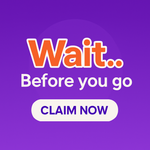
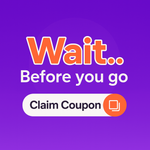
updated promos for templates

Changed region(s): [[0.1333, 0.2133, 0.88, 0.8267]]

diff --git a/src/editor/components/variation-picker/Component.scss b/src/editor/components/variation-picker/Component.scss
@@ -302,6 +302,10 @@
     height: 100%;
     grid-column: 2 / 3;
     grid-row: 1 / 2;
+
+    p {
+      margin-top: 0;
+    }
   }
 }
 

diff --git a/includes/Admin/Templates/ProFlyoutTemplates.php b/includes/Admin/Templates/ProFlyoutTemplates.php
@@ -5,51 +5,38 @@
  */
 return array(
     array(
-        'name' => 'flyout__digital_download_signup',
-        'title' => __( 'Digital Download Signup', 'fooconvert' ),
-        'description' => __( 'Digital download signup themed flyout.', 'fooconvert' ),
-        'thumbnail' => FOOCONVERT_ASSETS_URL . 'media/templates/template__digital_download_signup.png',
-        'pro' => true,
-        'upsell' => array(
-            'title' => 'Digital Download Signup',
-            'content' => '<p>example description <a href="#link">with a link</a></p>',
-            'image' => FOOCONVERT_ASSETS_URL . 'media/templates/template__digital_download_signup.png',
-            'primary' => array(
-                'text' => 'View PRO Pricing',
-                'href' => '#view_pro_pricing_url',
-            ),
-            'secondary' => array(
-                'text' => 'Start Free Trial',
-                'href' => '#start_free_trial_url',
-            )
-        )
-    ),
-    array(
-        'name' => 'flyout__newsletter_subscribe',
-        'title' => __( 'Newsletter Subscribe', 'fooconvert' ),
-        'description' => __( 'Newsletter subscribe themed flyout.', 'fooconvert' ),
-        'thumbnail' => FOOCONVERT_ASSETS_URL . 'media/templates/template__newsletter_subscribe.png',
-        'pro' => true,
-    ),
-    array(
-        'name' => 'flyout__smart_exit_offer',
-        'title' => __( 'Smart Exit Offer', 'fooconvert' ),
-        'description' => __( 'A smart exit offer flyout lead magnet to help prevent visitors from leaving your site.', 'fooconvert' ),
-        'thumbnail' => FOOCONVERT_ASSETS_URL . 'media/templates/template__smart_exit_offer.png',
+        'name' => 'flyout__watch_the_video',
+        'title' => __( 'Watch the Video', 'fooconvert' ),
+        'description' => __( 'The "Watch the Video" flyout templates guides visitors to watch a specific video. Get more views to your YouTube channel!', 'fooconvert' ),
+        'thumbnail' => FOOCONVERT_ASSETS_URL . 'media/templates/template__video.png',
         'pro' => true,
     ),
     array(
         'name' => 'flyout__special_offer',
         'title' => __( 'Special Offer Countdown', 'fooconvert' ),
-        'description' => __( 'Guide visitors to specific offer with a countdown timer.', 'fooconvert' ),
+        'description' => __( 'The "Special Offer Countdown" flyout templates guides visitors to a specific offer with an awesome looking countdown timer.', 'fooconvert' ),
         'thumbnail' => FOOCONVERT_ASSETS_URL . 'media/templates/template__special_offer.png',
         'pro' => true,
     ),
     array(
-        'name' => 'flyout__watch_the_video',
-        'title' => __( 'Watch the Video', 'fooconvert' ),
-        'description' => __( 'Guide visitors to a watch a specific video.', 'fooconvert' ),
-        'thumbnail' => FOOCONVERT_ASSETS_URL . 'media/templates/template__video.png',
+        'name' => 'flyout__digital_download_signup',
+        'title' => __( 'Digital Download Signup', 'fooconvert' ),
+        'description' => __( 'The "Digital Download Signup" flyout template is a lead magnet to help you grow your mailing list by offering a free download (e.g. an e-book, PDF, etc). All leads are also captured under FooConvert -> Leads.', 'fooconvert' ),
+        'thumbnail' => FOOCONVERT_ASSETS_URL . 'media/templates/template__digital_download_signup.png',
+        'pro' => true
+    ),
+    array(
+        'name' => 'flyout__smart_exit_offer',
+        'title' => __( 'Smart Exit Offer', 'fooconvert' ),
+        'description' => __( 'The "Smart Exit Offer" flyout templates is an exit intent bar that guides visitors to copy and use a specific coupon code to help persuade visitors to stay on your site.', 'fooconvert' ),
+        'thumbnail' => FOOCONVERT_ASSETS_URL . 'media/templates/template__smart_exit_offer.png',
         'pro' => true,
     ),
+    array(
+        'name' => 'flyout__newsletter_subscribe',
+        'title' => __( 'Newsletter Subscribe', 'fooconvert' ),
+        'description' => __( 'The "Newsletter Subscribe" flyout template captures leads for your newsletter. All leads are also captured under FooConvert -> Leads.', 'fooconvert' ),
+        'thumbnail' => FOOCONVERT_ASSETS_URL . 'media/templates/template__newsletter_subscribe.png',
+        'pro' => true,
+    )
 );

diff --git a/includes/Admin/Templates/ProPopupTemplates.php b/includes/Admin/Templates/ProPopupTemplates.php
@@ -5,51 +5,38 @@
  */
 return array(
     array(
-        'name' => 'popup__digital_download_signup',
-        'title' => __( 'Digital Download Signup', 'fooconvert' ),
-        'description' => __( 'Digital download signup themed popup.', 'fooconvert' ),
-        'thumbnail' => FOOCONVERT_ASSETS_URL . 'media/templates/template__digital_download_signup.png',
-        'pro' => true,
-        'upsell' => array(
-            'title' => 'Digital Download Signup',
-            'content' => '<p>example description <a href="#link">with a link</a></p>',
-            'image' => FOOCONVERT_ASSETS_URL . 'media/templates/template__digital_download_signup.png',
-            'primary' => array(
-                'text' => 'View PRO Pricing',
-                'href' => '#view_pro_pricing_url',
-            ),
-            'secondary' => array(
-                'text' => 'Start Free Trial',
-                'href' => '#start_free_trial_url',
-            )
-        )
-    ),
-    array(
-        'name' => 'popup__newsletter_subscribe',
-        'title' => __( 'Newsletter Subscribe', 'fooconvert' ),
-        'description' => __( 'Newsletter Subscribe marketing themed popup.', 'fooconvert' ),
-        'thumbnail' => FOOCONVERT_ASSETS_URL . 'media/templates/template__newsletter_subscribe.png',
-        'pro' => true,
-    ),
-    array(
-        'name' => 'popup__smart_exit_offer',
-        'title' => __( 'Smart Exit Offer', 'fooconvert' ),
-        'description' => __( 'Smart exit offer themed popup.', 'fooconvert' ),
-        'thumbnail' => FOOCONVERT_ASSETS_URL . 'media/templates/template__smart_exit_offer.png',
+        'name' => 'popup__watch_the_video',
+        'title' => __( 'Watch the Video', 'fooconvert' ),
+        'description' => __( 'The "Watch the Video" popup templates guides visitors to watch a specific video. Get more views to your YouTube channel!', 'fooconvert' ),
+        'thumbnail' => FOOCONVERT_ASSETS_URL . 'media/templates/template__video.png',
         'pro' => true,
     ),
     array(
         'name' => 'popup__special_offer',
         'title' => __( 'Special Offer Countdown', 'fooconvert' ),
-        'description' => __( 'Guide visitors to specific offer with a countdown timer.', 'fooconvert' ),
+        'description' => __( 'The "Special Offer Countdown" popup templates guides visitors to a specific offer with an awesome looking countdown timer.', 'fooconvert' ),
         'thumbnail' => FOOCONVERT_ASSETS_URL . 'media/templates/template__special_offer.png',
         'pro' => true,
     ),
     array(
-        'name' => 'popup__watch_the_video',
-        'title' => __( 'Watch the Video', 'fooconvert' ),
-        'description' => __( 'Guide visitors to a watch a specific video.', 'fooconvert' ),
-        'thumbnail' => FOOCONVERT_ASSETS_URL . 'media/templates/template__video.png',
+        'name' => 'popup__digital_download_signup',
+        'title' => __( 'Digital Download Signup', 'fooconvert' ),
+        'description' => __( 'The "Digital Download Signup" popup template is a lead magnet to help you grow your mailing list by offering a free download (e.g. an e-book, PDF, etc). All leads are also captured under FooConvert -> Leads.', 'fooconvert' ),
+        'thumbnail' => FOOCONVERT_ASSETS_URL . 'media/templates/template__digital_download_signup.png',
+        'pro' => true
+    ),
+    array(
+        'name' => 'popup__smart_exit_offer',
+        'title' => __( 'Smart Exit Offer', 'fooconvert' ),
+        'description' => __( 'The "Smart Exit Offer" popup templates is an exit intent bar that guides visitors to copy and use a specific coupon code to help persuade visitors to stay on your site.', 'fooconvert' ),
+        'thumbnail' => FOOCONVERT_ASSETS_URL . 'media/templates/template__smart_exit_offer.png',
         'pro' => true,
     ),
+    array(
+        'name' => 'popup__newsletter_subscribe',
+        'title' => __( 'Newsletter Subscribe', 'fooconvert' ),
+        'description' => __( 'The "Newsletter Subscribe" popup template captures leads for your newsletter. All leads are also captured under FooConvert -> Leads.', 'fooconvert' ),
+        'thumbnail' => FOOCONVERT_ASSETS_URL . 'media/templates/template__newsletter_subscribe.png',
+        'pro' => true,
+    )
 );

diff --git a/includes/Admin/Templates/ProBarTemplates.php b/includes/Admin/Templates/ProBarTemplates.php
@@ -5,38 +5,38 @@
  */
 return array(
     array(
-        'name' => 'bar__digital_download_signup',
-        'title' => __( 'Digital Download Signup', 'fooconvert' ),
-        'description' => __( 'The "Digital Download Signup" bar template is a lead magnet help you grow your mailing list by offering a free download (e.g. an e-book, PDF, etc). All leads are also captured under FooConvert -> Leads.', 'fooconvert' ),
-        'thumbnail' => FOOCONVERT_ASSETS_URL . 'media/templates/template__digital_download_signup.png',
-        'pro' => true
-    ),
-    array(
-        'name' => 'bar__newsletter_subscribe',
-        'title' => __( 'Newsletter Subscribe', 'fooconvert' ),
-        'description' => __( 'Newsletter Subscribe marketing themed bar.', 'fooconvert' ),
-        'thumbnail' => FOOCONVERT_ASSETS_URL . 'media/templates/template__newsletter_subscribe.png',
-        'pro' => true,
-    ),
-    array(
-        'name' => 'bar__smart_exit_offer',
-        'title' => __( 'Smart Exit Offer', 'fooconvert' ),
-        'description' => __( 'A smart exit offer bar lead magnet to help prevent visitors from leaving your site.', 'fooconvert' ),
-        'thumbnail' => FOOCONVERT_ASSETS_URL . 'media/templates/template__smart_exit_offer.png',
+        'name' => 'bar__watch_the_video',
+        'title' => __( 'Watch the Video', 'fooconvert' ),
+        'description' => __( 'The "Watch the Video" bar templates guides visitors to watch a specific video. Get more views to your YouTube channel!', 'fooconvert' ),
+        'thumbnail' => FOOCONVERT_ASSETS_URL . 'media/templates/template__video.png',
         'pro' => true,
     ),
     array(
         'name' => 'bar__special_offer',
         'title' => __( 'Special Offer Countdown', 'fooconvert' ),
-        'description' => __( 'Guide visitors to specific offer with a countdown timer.', 'fooconvert' ),
+        'description' => __( 'The "Special Offer Countdown" bar templates guides visitors to a specific offer with an awesome looking countdown timer.', 'fooconvert' ),
         'thumbnail' => FOOCONVERT_ASSETS_URL . 'media/templates/template__special_offer.png',
         'pro' => true,
     ),
     array(
-        'name' => 'bar__watch_the_video',
-        'title' => __( 'Watch the Video', 'fooconvert' ),
-        'description' => __( 'Guide visitors to a watch a specific video.', 'fooconvert' ),
-        'thumbnail' => FOOCONVERT_ASSETS_URL . 'media/templates/template__video.png',
+        'name' => 'bar__digital_download_signup',
+        'title' => __( 'Digital Download Signup', 'fooconvert' ),
+        'description' => __( 'The "Digital Download Signup" bar template is a lead magnet to help you grow your mailing list by offering a free download (e.g. an e-book, PDF, etc). All leads are also captured under FooConvert -> Leads.', 'fooconvert' ),
+        'thumbnail' => FOOCONVERT_ASSETS_URL . 'media/templates/template__digital_download_signup.png',
+        'pro' => true
+    ),
+    array(
+        'name' => 'bar__smart_exit_offer',
+        'title' => __( 'Smart Exit Offer', 'fooconvert' ),
+        'description' => __( 'The "Smart Exit Offer" bar templates is an exit intent bar that guides visitors to copy and use a specific coupon code to help persuade visitors to stay on your site.', 'fooconvert' ),
+        'thumbnail' => FOOCONVERT_ASSETS_URL . 'media/templates/template__smart_exit_offer.png',
         'pro' => true,
     ),
+    array(
+        'name' => 'bar__newsletter_subscribe',
+        'title' => __( 'Newsletter Subscribe', 'fooconvert' ),
+        'description' => __( 'The "Newsletter Subscribe" bar template captures leads for your newsletter. All leads are also captured under FooConvert -> Leads.', 'fooconvert' ),
+        'thumbnail' => FOOCONVERT_ASSETS_URL . 'media/templates/template__newsletter_subscribe.png',
+        'pro' => true,
+    )
 );